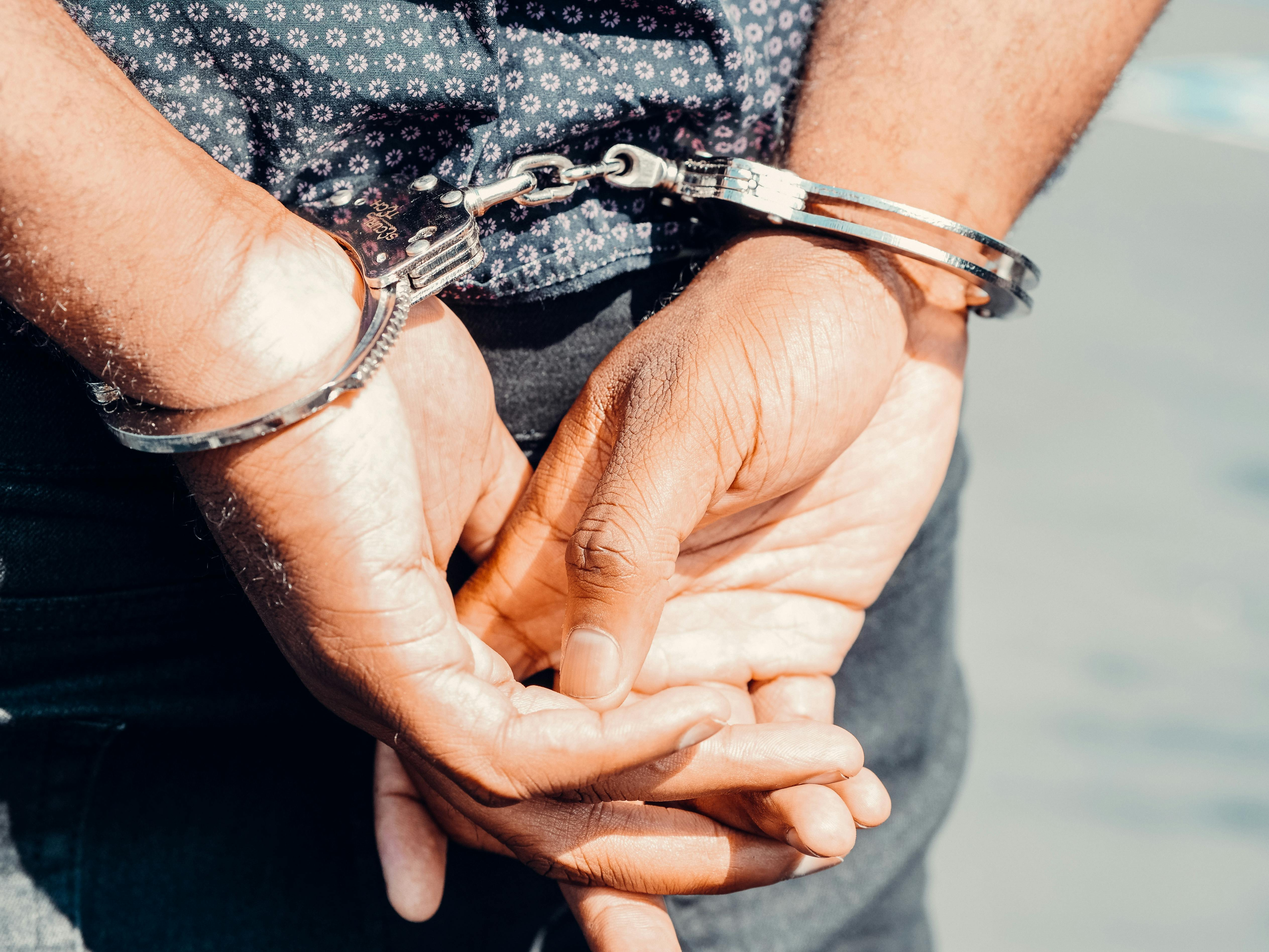
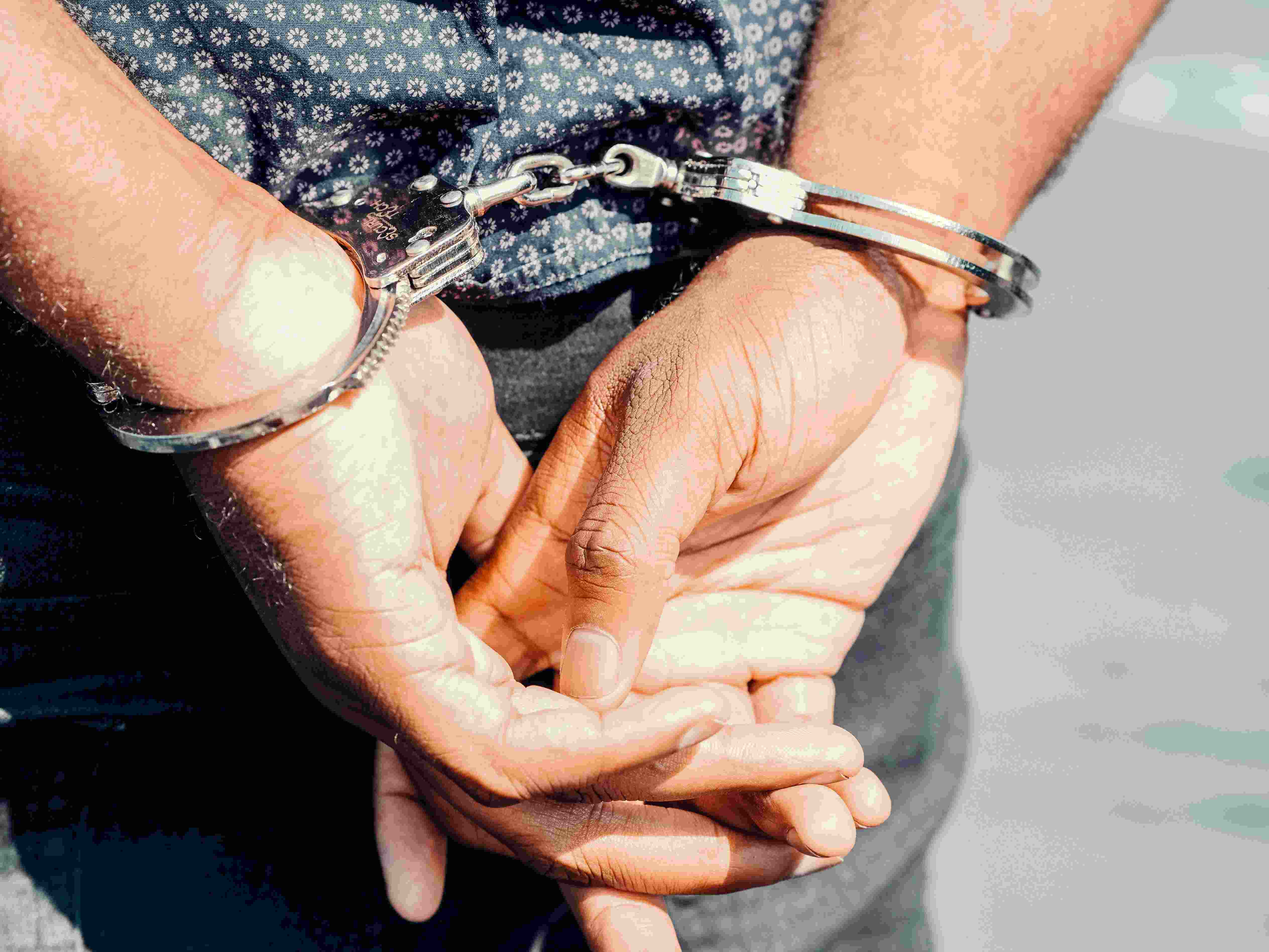
removed bavbar kegal help button from mobile displays, and compressed lawsection images,

diff --git a/components/Navbar.tsx b/components/Navbar.tsx
@@ -82,7 +82,9 @@ export default function Navbar() {
           direction={"row"}
           spacing={6}
         >
-          <ModalComponent buttonText="Take Legal Help"></ModalComponent>
+          <Box display={{ base: "none", md: "inline-flex" }}>
+            <ModalComponent buttonText="Take Legal Help"></ModalComponent>
+          </Box>
         </Stack>
       </Flex>
 
